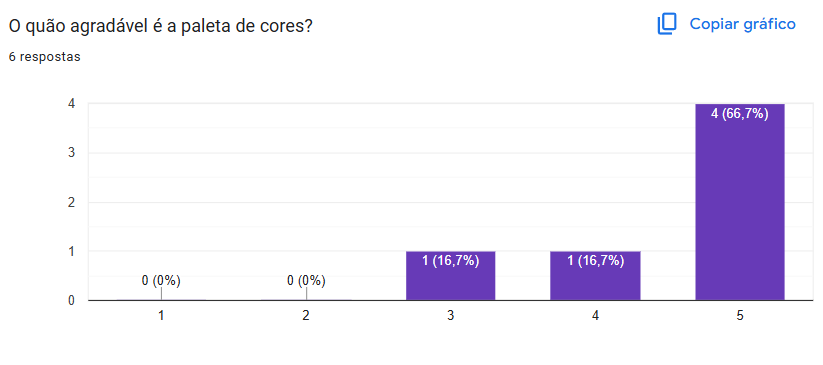
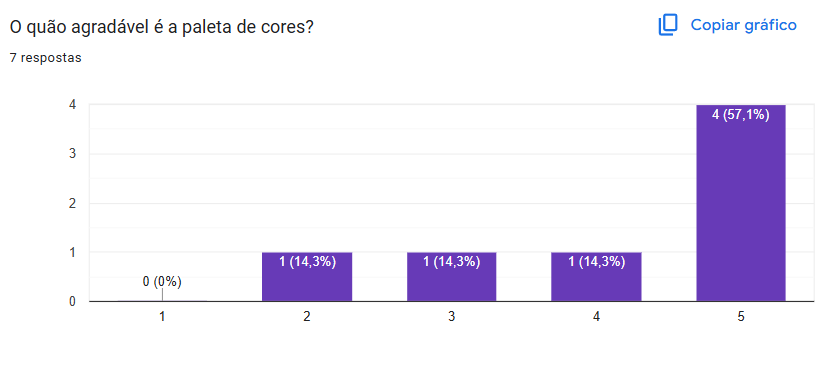
docs: atualizando a pagina de test

diff --git a/docs/Base/1.1.5.Test.md b/docs/Base/1.1.5.Test.md
@@ -1,6 +1,13 @@
 # Etapa: Teste
 
-A etapa de teste é a última fase do Design Sprint. O principal objetivo é validar a solução prototipada com potenciais usuários, para entender se ela realmente resolve o problema proposto. É nesta fase do Design Sprint que a equipe decide se continuará com o projeto ou irá abandoná-lo. Nesse caso, utilizamos o google forms para realizar o teste de validação. 
+A etapa de teste é a última fase do Design Sprint. O principal objetivo é validar a solução prototipada com potenciais usuários, para entender se ela realmente resolve o problema proposto. É nesta fase do Design Sprint que a equipe decide se continuará com o projeto ou irá abandoná-lo. Nesse caso, utilizamos o Google Forms para realizar o teste de validação. 
+
+<center>
+Protótipo utilizado no Teste de Validação
+
+![alt text](../imagens/testgrande.png)
+
+</center>
 
 ## Resultados 
 
@@ -28,7 +35,7 @@ Resultados da pergunta 3 (Fonte: [Cairo](https://github.com/CA1RO), [Gustavo Hau
 
 </center>
 
-<center>
+<center> 
 
 ![Resultados da pergunta 4](../imagens/resp4.png)
 
@@ -36,8 +43,14 @@ Resultados da pergunta 4 (Fonte: [Cairo](https://github.com/CA1RO), [Gustavo Hau
 
 </center>
 
+## Conclusão 
+
+Recebemos retornos positivos tanto sobre a ideia do Eterna FGA quanto sobre o protótipo desenvolvido. As respostas indicaram que o propósito do projeto foi bem compreendido e demonstrou ser uma iniciativa relevante para a comunidade acadêmica. Além disso, mesmo sendo uma primeira versão, o protótipo apresentou bons resultados, mostrando-se intuitivo para os usuários. Ademais, as respostas mostraram que a paleta de cores do projeto precisa não agradou a todos e será repensada em versões futuras.
+
+
 ## Histórico de Versão
 | Versão | Data | Descrição | Autor(es) | Data de revisão | Revisor(es) |
 | :-: | :-: | :-: | :-: | :-: | :-: |
 | `1.0` | 10/04/2025  | Criação do Testes de Validação. | Cairo | 10/04/2025 | Gustavo |
+| `1.1` | 10/04/2025  | Adição da conclusão dos Testes. | Cairo | 10/04/2025 | Gustavo |
 
